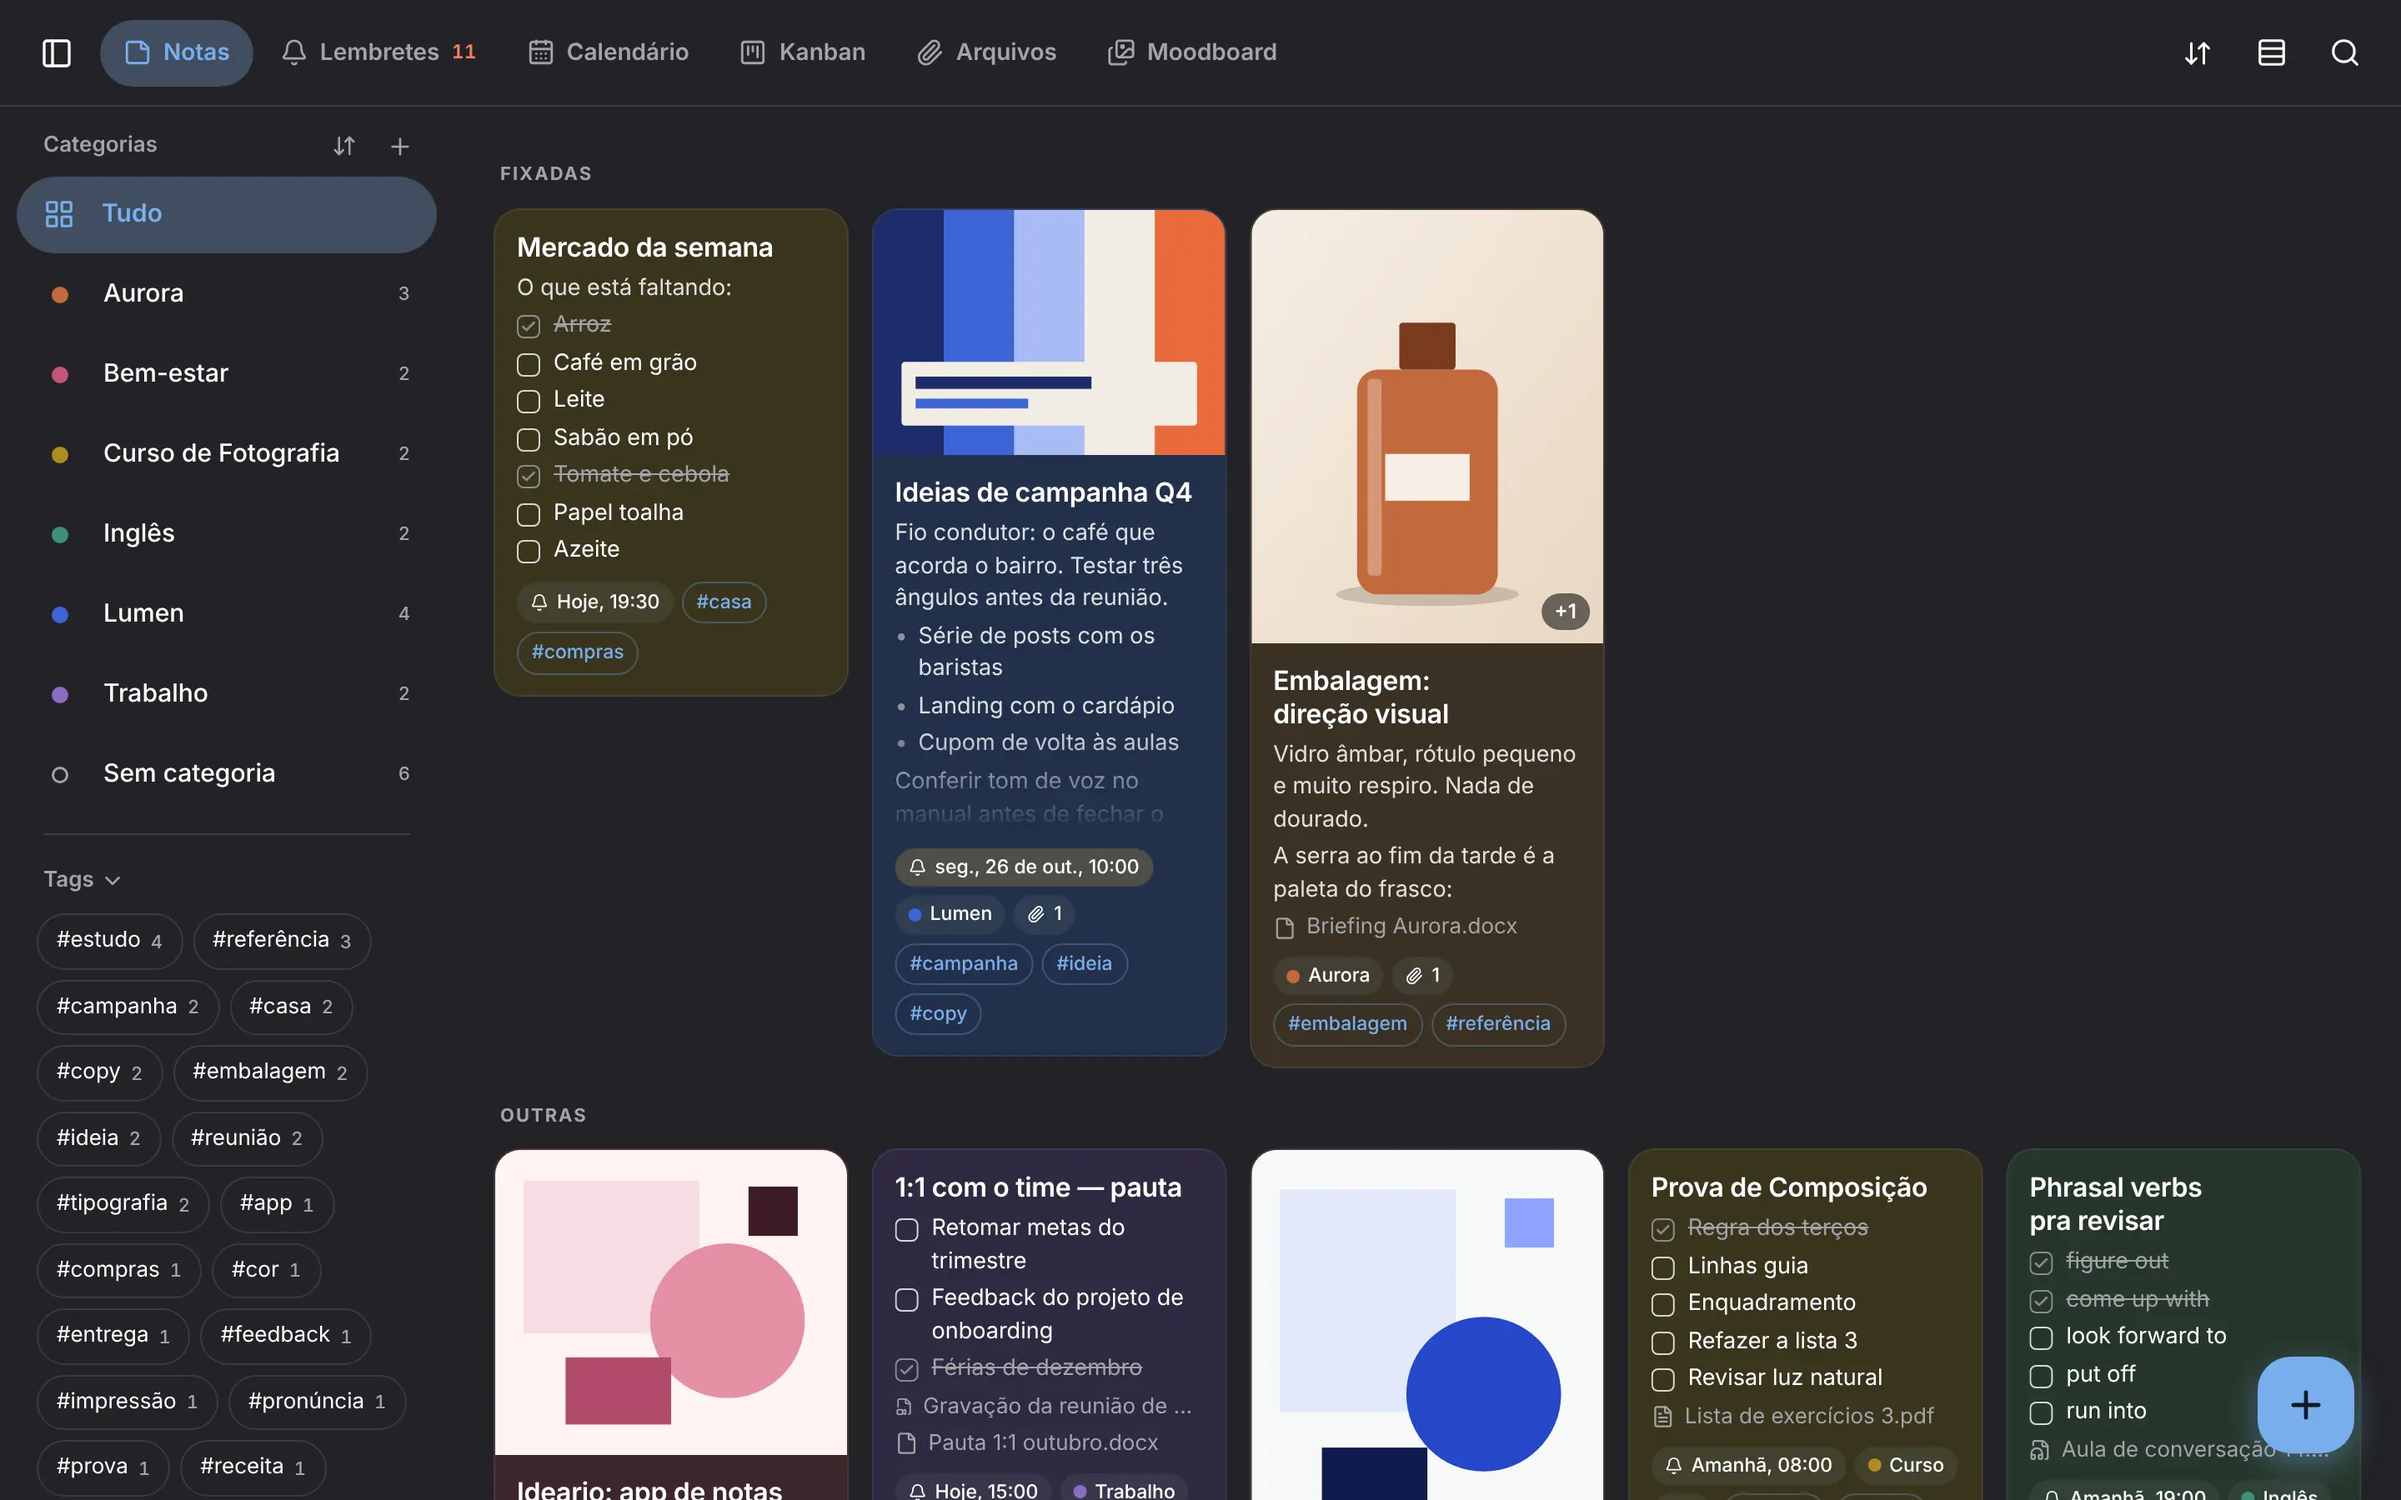
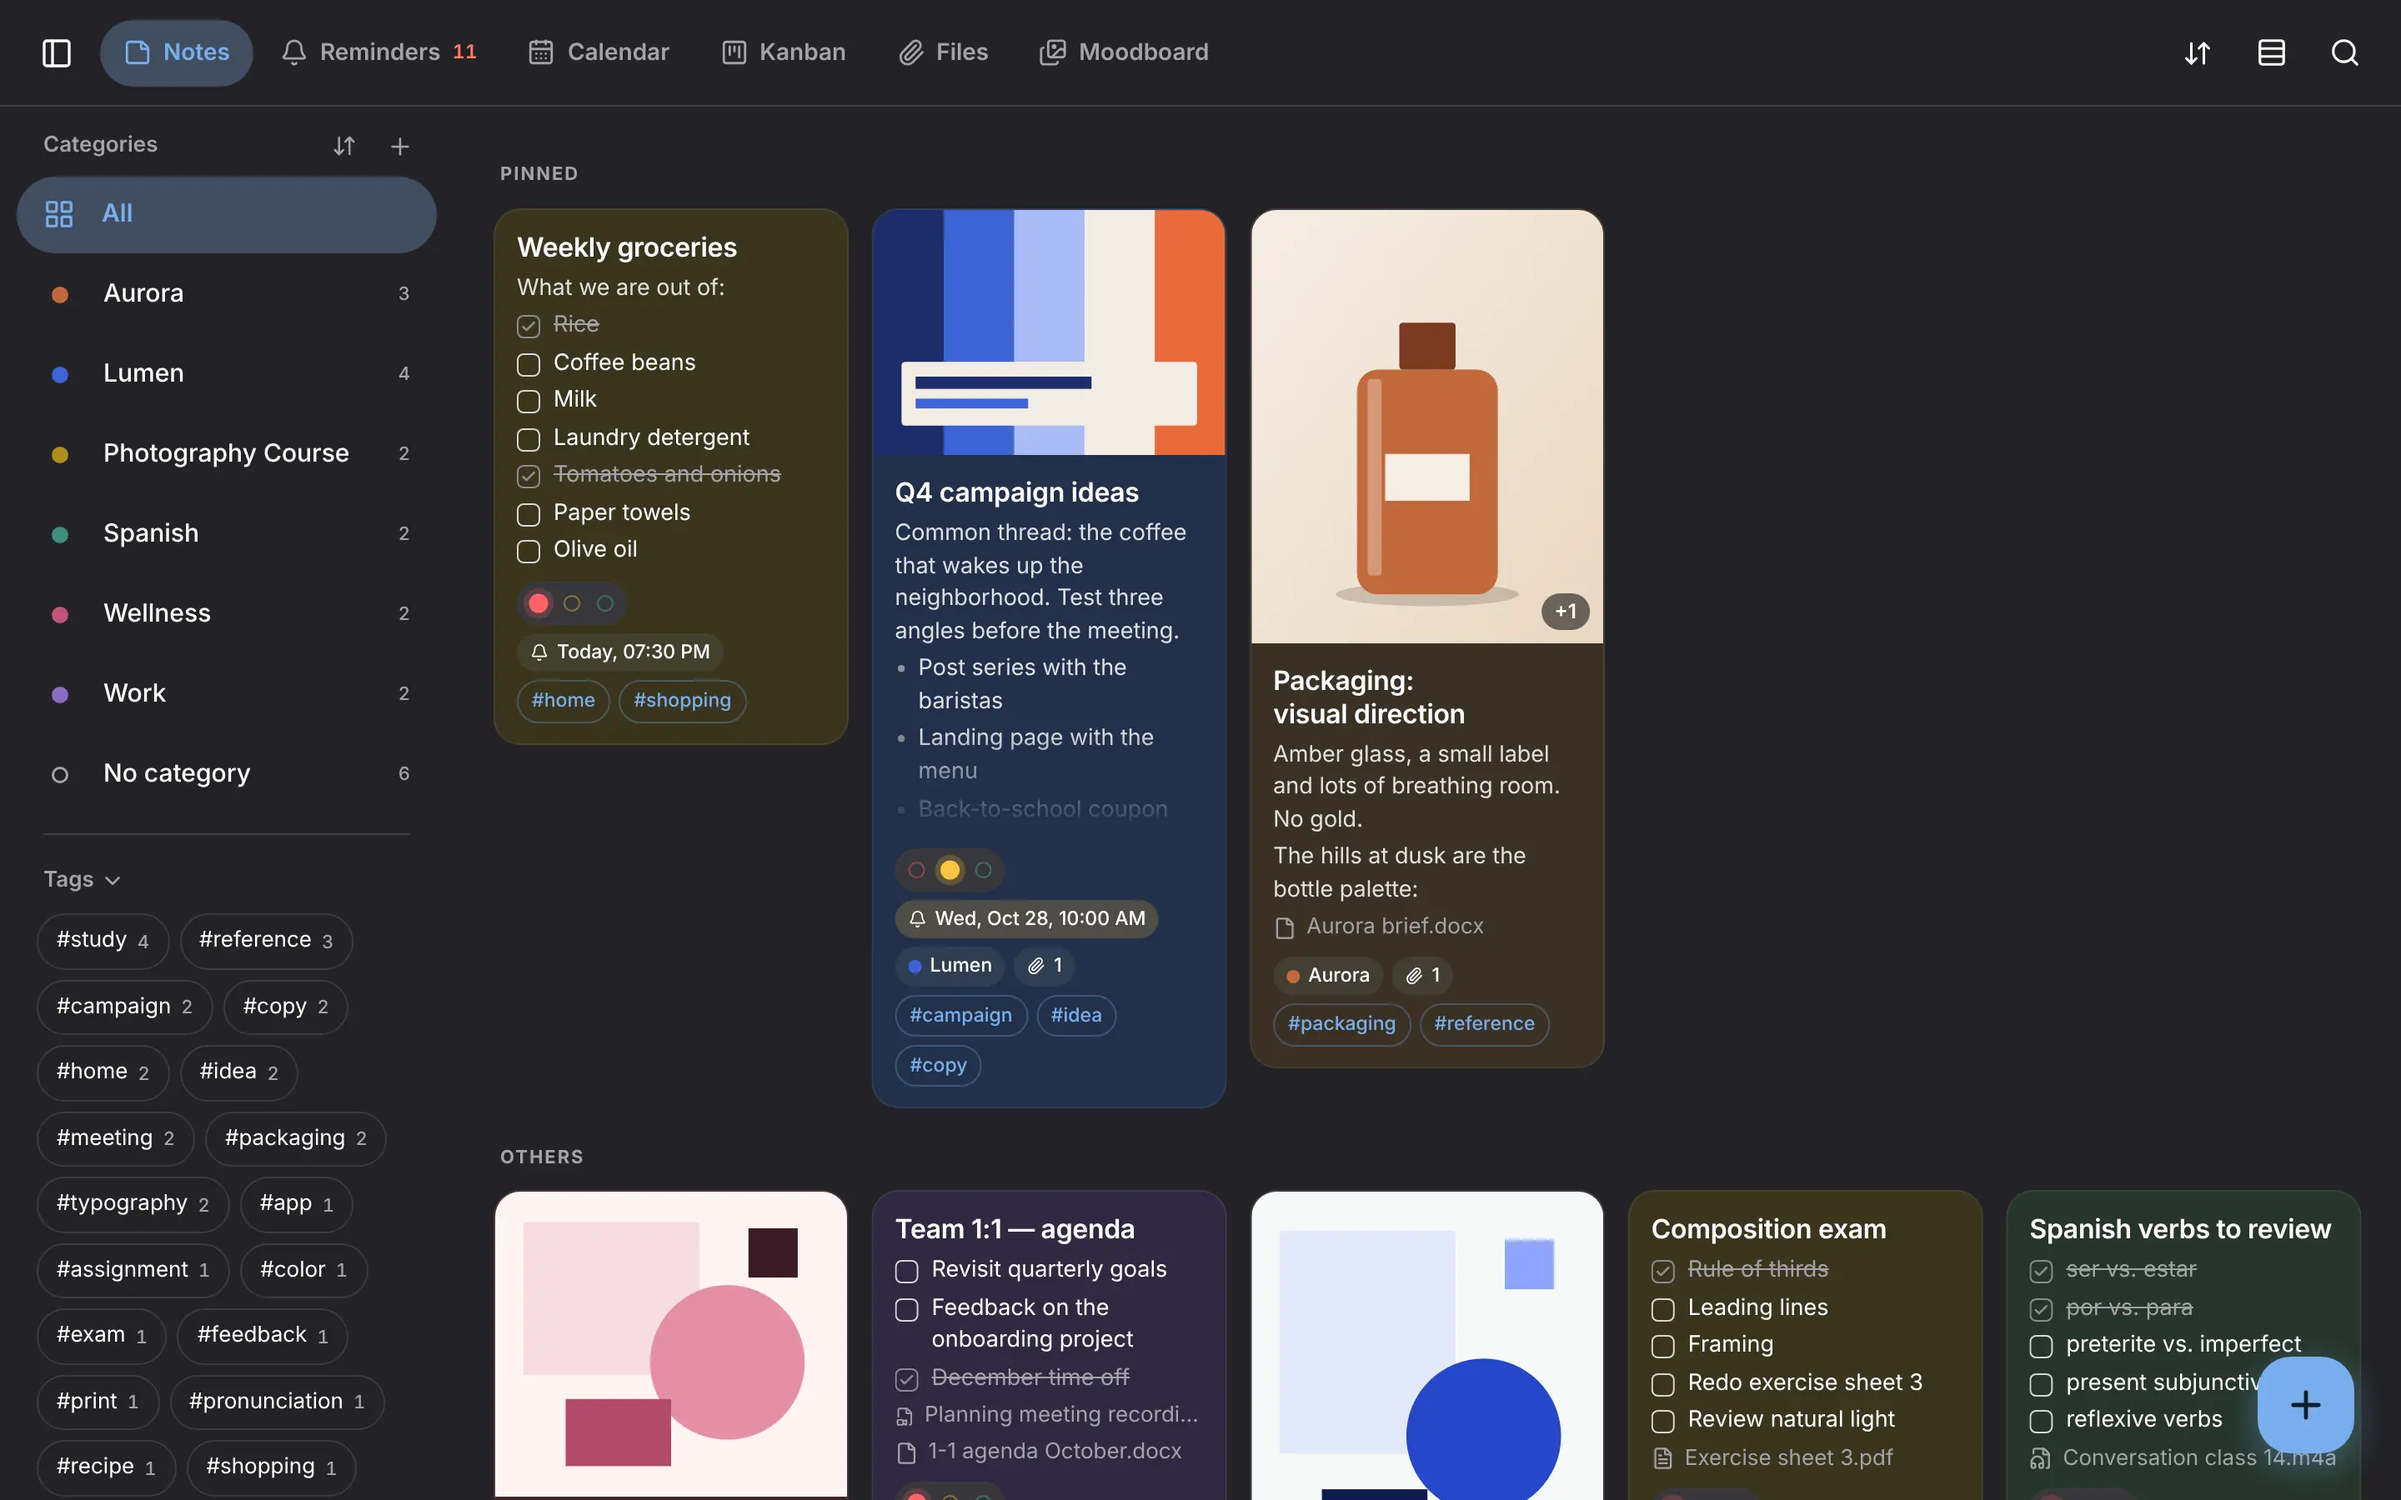
Site: print do Ideario em inglês na página principal e em português em /pt/
Claude-Session: https://claude.ai/code/session_01AzZnq8hfvPnh2DukMvcEkA

diff --git a/site/pt/index.html b/site/pt/index.html
@@ -257,7 +257,7 @@ sudo dnf install nodo</code></pre>
           <ul><li>Notas com checklist, fotos, PDFs e áudio</li><li>Lembretes que avisam de verdade, com calendário e kanban</li><li>Sincroniza pelo seu próprio Google Drive, se quiser</li><li>Windows, macOS, Linux e Android</li></ul>
           <a class="btn primary" href="https://ideario.pages.dev/pt/">Conhecer o Ideario<svg class="lucide" viewBox="0 0 24 24" width="18" height="18" fill="none" stroke="currentColor" stroke-width="2" stroke-linecap="round" stroke-linejoin="round" aria-hidden="true"><path d="M5 12h14"/><path d="m12 5 7 7-7 7"/></svg></a>
         </div>
-        <div class="media"><picture><source srcset="/img/ideario-escuro.webp" media="(prefers-color-scheme: dark)"><img src="/img/ideario.webp" width="2880" height="1800" loading="lazy" alt="Tela principal do Ideario: notas coloridas em cards, com checklists, fotos e lembretes"></picture></div>
+        <div class="media"><picture><source srcset="/img/pt/ideario-escuro.webp" media="(prefers-color-scheme: dark)"><img src="/img/pt/ideario.webp" width="2880" height="1800" loading="lazy" alt="Tela principal do Ideario: notas coloridas em cards, com checklists, fotos e lembretes"></picture></div>
       </div>
     </div>
   </div>
